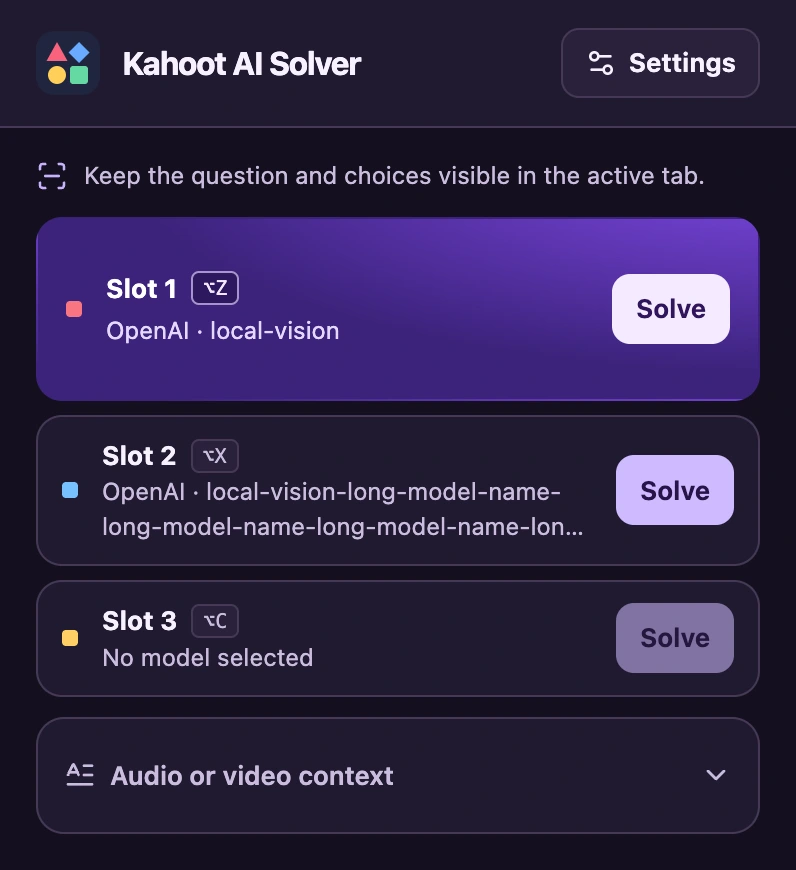
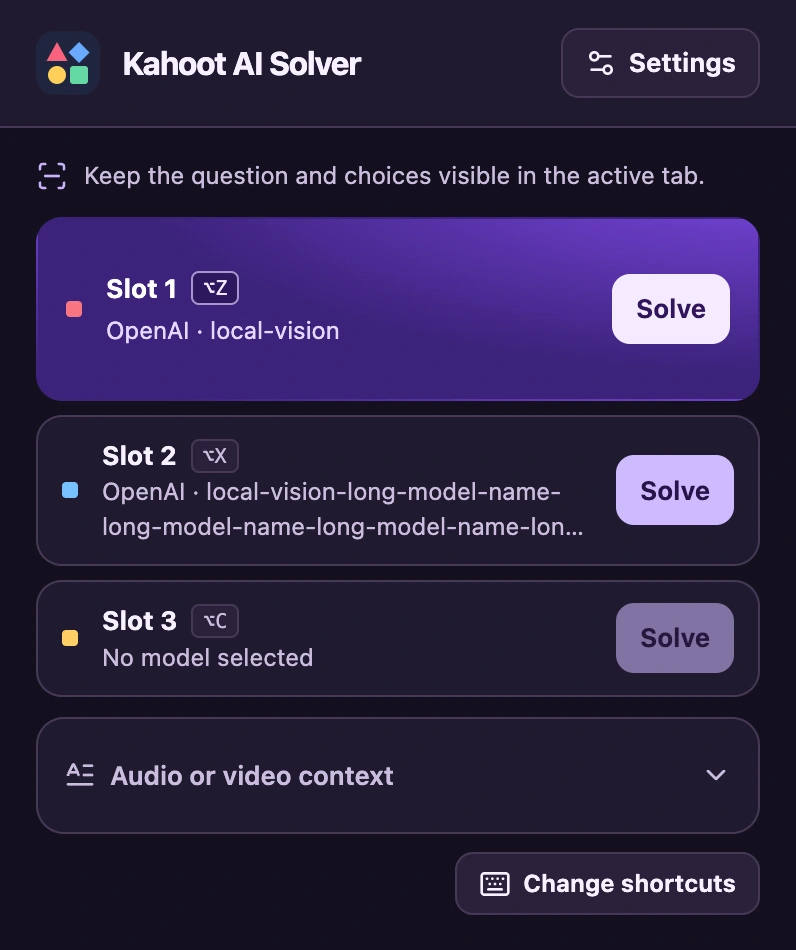
Open Chrome keyboard shortcut settings from the popup (#3)

diff --git a/docs/index.html b/docs/index.html
@@ -81,7 +81,7 @@
         <h1 id="hero-title">Get a second look at <em>your quiz.</em></h1>
         <p class="lede">Kahoot AI Solver sends the visible question to the model you choose and shows an answer suggestion right on the page.</p>
         <div class="cta-row">
-          <a class="btn btn-red" id="install" href="#setup">Install 2.0.1 <svg class="ico" aria-hidden="true"><use href="#i-right"/></svg></a>
+          <a class="btn btn-red" id="install" href="#setup">Install 2.0.2 <svg class="ico" aria-hidden="true"><use href="#i-right"/></svg></a>
           <a class="btn btn-secondary" href="#demo"><svg class="ico" aria-hidden="true"><use href="#i-play"/></svg>Try the demo</a>
         </div>
         <p class="fineprint">Use your own Gemini, OpenAI or compatible API key.</p>
@@ -150,17 +150,17 @@
       <div>
         <h2 id="setup-title">Set up the extension</h2>
         <ol class="setup-steps">
-          <li><div><h3>Load the 2.0.1 build</h3><p>Download the 2.0.1 ZIP and unzip it. At <code>chrome://extensions/</code>, turn on Developer mode and select <b>Load unpacked</b>. Pick the folder containing <code>manifest.json</code>.</p>
-          <a class="link" href="downloads/kahoot-ai-solver-2.0.1.zip" download><svg class="ico" aria-hidden="true"><use href="#i-download"/></svg>Download 2.0.1 ZIP</a></div></li>
+          <li><div><h3>Load the 2.0.2 build</h3><p>Download the 2.0.2 ZIP and unzip it. At <code>chrome://extensions/</code>, turn on Developer mode and select <b>Load unpacked</b>. Pick the folder containing <code>manifest.json</code>.</p>
+          <a class="link" href="downloads/kahoot-ai-solver-2.0.2.zip" download><svg class="ico" aria-hidden="true"><use href="#i-download"/></svg>Download 2.0.2 ZIP</a></div></li>
           <li><div><h3>Connect your API key</h3><p>Open Settings, enter your provider key and select <b>Save keys &amp; load models</b>. For a compatible server, use its HTTPS API base URL ending in <code>/v1</code>.</p>
           <div class="key-links"><a class="link" href="https://aistudio.google.com/apikey" target="_blank" rel="noopener noreferrer">Gemini key <svg class="ico" aria-hidden="true"><use href="#i-up"/></svg></a><a class="link" href="https://platform.openai.com/api-keys" target="_blank" rel="noopener noreferrer">OpenAI key <svg class="ico" aria-hidden="true"><use href="#i-up"/></svg></a></div></div></li>
           <li id="models"><div><h3>Pick a model and solve</h3><p>Choose an image-capable model in any slot. Show the question and choices on the active tab, then click Solve or use the displayed shortcut.</p>
-          <div class="key-strip" aria-label="Default shortcuts"><span><kbd>Alt</kbd> + <kbd>Z</kbd></span><span><kbd>Alt</kbd> + <kbd>X</kbd></span><span><kbd>Alt</kbd> + <kbd>C</kbd></span><small>Option on Mac</small></div></div></li>
+          <div class="key-strip" aria-label="Default shortcuts"><span><kbd>Alt</kbd> + <kbd>Z</kbd></span><span><kbd>Alt</kbd> + <kbd>X</kbd></span><span><kbd>Alt</kbd> + <kbd>C</kbd></span><small>Option on Mac</small></div><p>Click <b>Change shortcuts</b> in the popup to edit any of the three keys in Chrome.</p></div></li>
         </ol>
       </div>
       <figure class="shot">
-        <img src="assets/popup.webp" width="398" height="435" loading="lazy" alt="The extension’s home screen with three shortcut slots, saved model names and Solve buttons.">
-        <figcaption>2.0.1 extension popup</figcaption>
+        <img src="assets/popup.webp" width="398" height="475" loading="lazy" alt="The extension’s home screen with three shortcut slots, saved model names and Solve buttons.">
+        <figcaption>2.0.2 extension popup</figcaption>
       </figure>
     </section>
 
@@ -172,7 +172,7 @@
           <a class="link" href="privacy.html">Privacy policy <svg class="ico" aria-hidden="true"><use href="#i-right"/></svg></a>
         </div>
         <div class="faq-list">
-          <details><summary>Why does the store version say “Youtube Ad Blocker”? <svg class="ico" aria-hidden="true"><use href="#i-chevron"/></svg></summary><p>That cover appears in store version 1.4.0. Use the three-dot button to open its AI settings. The 2.0.1 unpacked build opens straight to Kahoot AI Solver.</p></details>
+          <details><summary>Why does the store version say “Youtube Ad Blocker”? <svg class="ico" aria-hidden="true"><use href="#i-chevron"/></svg></summary><p>That cover appears in store version 1.4.0. Use the three-dot button to open its AI settings. The 2.0.2 unpacked build opens straight to Kahoot AI Solver.</p></details>
           <details><summary>What if I only see colored buttons in Kahoot? <svg class="ico" aria-hidden="true"><use href="#i-chevron"/></svg></summary><p>Ask the quiz host to enable questions and answers on participant screens. The extension needs the question text and choices visible on the captured tab.</p></details>
           <details><summary>Which answer formats are supported? <svg class="ico" aria-hidden="true"><use href="#i-chevron"/></svg></summary><p>Single choice, multiple choice, typed answers, ordered choices and slider values. For an audio or video question, you can include a transcript with the popup's Solve button.</p></details>
           <details><summary>Why does my model reject the screenshot? <svg class="ico" aria-hidden="true"><use href="#i-chevron"/></svg></summary><p>Model lists may omit image support or API compatibility. Choose a model that accepts images and check the account’s permissions and usage limit.</p></details>

diff --git a/popup.html b/popup.html
@@ -196,6 +196,8 @@
     textarea { resize: vertical; }
     .status { margin-top: 8px; color: var(--muted); overflow-wrap: anywhere; }
     .status:empty { display: none; }
+    .shortcut-actions { display: flex; justify-content: flex-end; margin-top: 9px; }
+    #manageShortcuts { min-height: 31px; font-size: 12px; }
     #solveStatus:not(:empty) { padding: 9px 11px; border: 1px solid var(--line); border-radius: 9px; background: var(--surface); }
   </style>
 </head>
@@ -267,6 +269,15 @@ SOFTWARE.
   <path d="M21 3v5h-5" />
   <path d="M21 12a9 9 0 0 1-9 9 9.75 9.75 0 0 1-6.74-2.74L3 16" />
   <path d="M8 16H3v5" /></symbol>
+    <symbol id="icon-keyboard" viewBox="0 0 24 24" fill="none" stroke="currentColor" stroke-width="2" stroke-linecap="round" stroke-linejoin="round"><path d="M10 8h.01" />
+  <path d="M12 12h.01" />
+  <path d="M14 8h.01" />
+  <path d="M16 12h.01" />
+  <path d="M18 8h.01" />
+  <path d="M6 8h.01" />
+  <path d="M7 16h10" />
+  <path d="M8 12h.01" />
+  <rect width="20" height="16" x="2" y="4" rx="2" /></symbol>
   </svg>
   <header class="brandbar">
     <img src="icon128.png" alt="" width="32" height="32">
@@ -306,6 +317,11 @@ SOFTWARE.
       </label>
       <small>Sent with a Solve button only. No audio is recorded.</small>
     </details>
+    <div class="shortcut-actions">
+      <button id="manageShortcuts" aria-label="Change keyboard shortcuts in Chrome">
+        <svg class="icon" aria-hidden="true"><use href="#icon-keyboard"/></svg> Change shortcuts
+      </button>
+    </div>
     <div id="solveStatus" class="status" role="status"></div>
   </main>
 

diff --git a/popup.js b/popup.js
@@ -1,4 +1,5 @@
 const SLOTS = ['slot1', 'slot2', 'slot3'];
+const SHORTCUT_SETTINGS_URL = 'chrome://extensions/shortcuts';
 
 document.addEventListener('DOMContentLoaded', () => {
   const el = id => document.getElementById(id);
@@ -110,7 +111,7 @@ document.addEventListener('DOMContentLoaded', () => {
     SLOTS.forEach((_, index) => {
       const shortcut = el(`shortcut${index + 1}`);
       shortcut.textContent = shortcuts.get(`solve-slot-${index + 1}`) || 'Unassigned';
-      shortcut.title = 'Manage keyboard shortcuts at chrome://extensions/shortcuts';
+      shortcut.title = 'Current Chrome keyboard shortcut';
     });
   }).catch(() => {});
 
@@ -149,6 +150,18 @@ document.addEventListener('DOMContentLoaded', () => {
       saving = false;
       el('saveBtn').disabled = false;
       renderSlots();
+    }
+  });
+
+  el('manageShortcuts').addEventListener('click', async event => {
+    const button = event.currentTarget;
+    button.disabled = true;
+    try {
+      await chrome.tabs.create({ url: SHORTCUT_SETTINGS_URL });
+    } catch {
+      solveStatus.textContent = `Open ${SHORTCUT_SETTINGS_URL} to change shortcuts.`;
+    } finally {
+      button.disabled = false;
     }
   });
 

diff --git a/docs/privacy.html b/docs/privacy.html
@@ -74,7 +74,7 @@
 <main class="policy" id="main">
 <h1>Privacy policy — Kahoot AI Solver</h1>
 
-<p>Last updated November 23, 2026. Covers the Chrome Web Store release and unpacked builds through 2.0.1.</p>
+<p>Last updated November 23, 2026. Covers the Chrome Web Store release and unpacked builds through 2.0.2.</p>
 
 <p>Kahoot AI Solver is an independent Chrome extension maintained by Ketchio-dev. It suggests answers to visible quiz questions using the AI API account and model you select. It does not operate a developer backend for processing screenshots or storing your API keys.</p>
 

diff --git a/README.md b/README.md
@@ -4,11 +4,11 @@ Chrome extension for asking a Gemini, OpenAI or compatible model about the quiz 
 
 [Project site](https://ketchio-dev.github.io/Kahoot-AI-Solver/) · [Privacy policy](https://ketchio-dev.github.io/Kahoot-AI-Solver/privacy.html) · [Chrome Web Store](https://chromewebstore.google.com/detail/fgpbceoplppnfodmjcengikbefngpjfp)
 
-## Install 2.0.1
+## Install 2.0.2
 
-Download and unzip [the 2.0.1 package](https://ketchio-dev.github.io/Kahoot-AI-Solver/downloads/kahoot-ai-solver-2.0.1.zip) or use the repository checkout containing `manifest.json`. In Chrome open `chrome://extensions/`, turn on **Developer mode**, select **Load unpacked**, and choose that folder. Disable the store copy if both are installed so they do not compete for shortcuts.
+Download and unzip [the 2.0.2 package](https://ketchio-dev.github.io/Kahoot-AI-Solver/downloads/kahoot-ai-solver-2.0.2.zip) or use the repository checkout containing `manifest.json`. In Chrome open `chrome://extensions/`, turn on **Developer mode**, select **Load unpacked**, and choose that folder. Disable the store copy if both are installed so they do not compete for shortcuts.
 
-As of November 23, 2026, the Chrome Web Store serves **v1.4.0**. Its popup opens with an old “Youtube Ad Blocker” cover. In that version select **···** to reach AI settings. The unpacked 2.0.1 opens directly to **Kahoot AI Solver**.
+As of November 23, 2026, the Chrome Web Store serves **v1.4.0**. Its popup opens with an old “Youtube Ad Blocker” cover. In that version select **···** to reach AI settings. The unpacked 2.0.2 opens directly to **Kahoot AI Solver**.
 
 ## Connect a provider and solve
 
@@ -16,7 +16,7 @@ As of November 23, 2026, the Chrome Web Store serves **v1.4.0**. Its popup opens
 2. Click **Save keys & load models**. Select an image-capable model in any slot. The first slot is enough to get started. Chrome keeps your selection, provider settings and display preference in this browser profile.
 3. Bring a tab that shows the question **and** its answer choices to the front. Click **Solve** next to your model on the popup home screen, or press its assigned keyboard shortcut. The reply appears in the bottom-right corner.
 
-The default shortcuts for slots 1–3 are **Alt+Z**, **Alt+X**, and **Alt+C** (Option on macOS). The popup shows Chrome's actual bindings. If a slot shows **Unassigned**, set a shortcut at `chrome://extensions/shortcuts` or use its Solve button.
+The default shortcuts for slots 1–3 are **Alt+Z**, **Alt+X**, and **Alt+C** (Option on macOS). Click **Change shortcuts** in the popup to open `chrome://extensions/shortcuts`. Under **Kahoot AI Solver**, edit or clear a key under **Solve with model slot 1**, **2**, or **3**. Reopen the popup to see the new binding. If Chrome shows a slot as **Unassigned**, its Solve button still works.
 
 When a live Kahoot participant tab shows only colored buttons, the host can turn on **Show questions & answers on participants’ devices**. [Kahoot setup guide](https://support.kahoot.com/hc/en-us/articles/115003197928-How-to-enable-See-questions-on-participant-s-screen-in-Kahoot-live-games)
 

diff --git a/PRIVACY.md b/PRIVACY.md
@@ -1,6 +1,6 @@
 # Privacy policy — Kahoot AI Solver
 
-Last updated November 23, 2026. Covers the Chrome Web Store release and unpacked builds through 2.0.1.
+Last updated November 23, 2026. Covers the Chrome Web Store release and unpacked builds through 2.0.2.
 
 Kahoot AI Solver is an independent Chrome extension maintained by Ketchio-dev. It suggests answers to visible quiz questions using the AI API account and model you select. It does not operate a developer backend for processing screenshots or storing your API keys.
 
